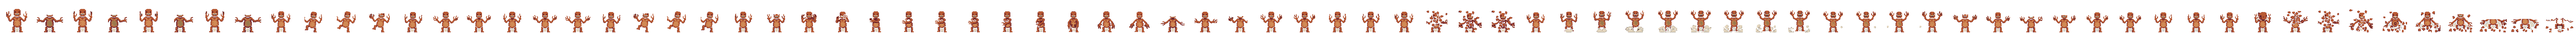
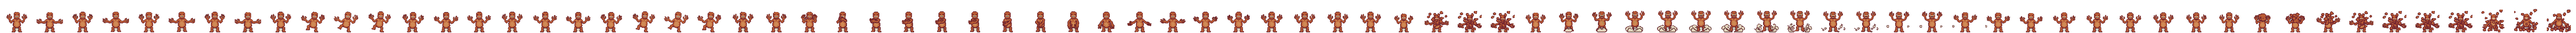
Dragon Isles yaratık galerisi — 23 onaylı yaratık, 6 hareket

diff --git a/g/001227413541dfd7/index.html b/g/001227413541dfd7/index.html
@@ -156,7 +156,7 @@ footer a{color:var(--altin)}
     </div>
 
     <div class="arac">
-      <label>Büyüklük <input type="range" id="olcek" min="1" max="6" step="1" value="2"></label>
+      <label>Büyüklük <input type="range" id="olcek" min="1" max="6" step="1" value="1"></label>
       <label>Hız <input type="range" id="hiz" min="3" max="20" step="1" value="12"></label>
       <span class="sayac" id="sayac"></span>
     </div>
@@ -320,7 +320,15 @@ fetch("veri.json").then(r=>r.json()).then(v=>{
   VERI=v; listeKur(); seritKur();
   $("ozet").textContent=v.yaratiklar.length+" onaylı yaratık · yaratık başına 6 hareket, "+
     "toplam 78 kare · "+(v.yaratiklar.length*78)+" elle boyanmış kare.";
-  $("olcek").oninput=olcekle; addEventListener("resize",olcekle); olcekle();
+  // **Telefonda 1:1 ile başla.** 2 kat, dar ekranda sanat pikselini 2x2 bloğa çeviriyor
+  // ve boyama kabalık olarak okunuyor - kurucunun "bozuk grafik" dediği şey bu, çizimin
+  // kendisi değil ölçek. Geniş ekranda 2 kat kalıyor: orada kutu zaten büyük, 96 px
+  // kaybolup gidiyor. Sürgüye dokunulduğu an bu varsayılan devre dışı.
+  $("olcek").value = innerWidth <= 820 ? 1 : 2;
+  let elle=false;
+  $("olcek").oninput=()=>{ elle=true; olcekle(); };
+  addEventListener("resize",()=>{ if(!elle) $("olcek").value = innerWidth<=820?1:2; olcekle(); });
+  olcekle();
   const h=location.hash.slice(1);
   const i=Math.max(0, v.yaratiklar.findIndex(y=>y.id===h));
   seç(i);
